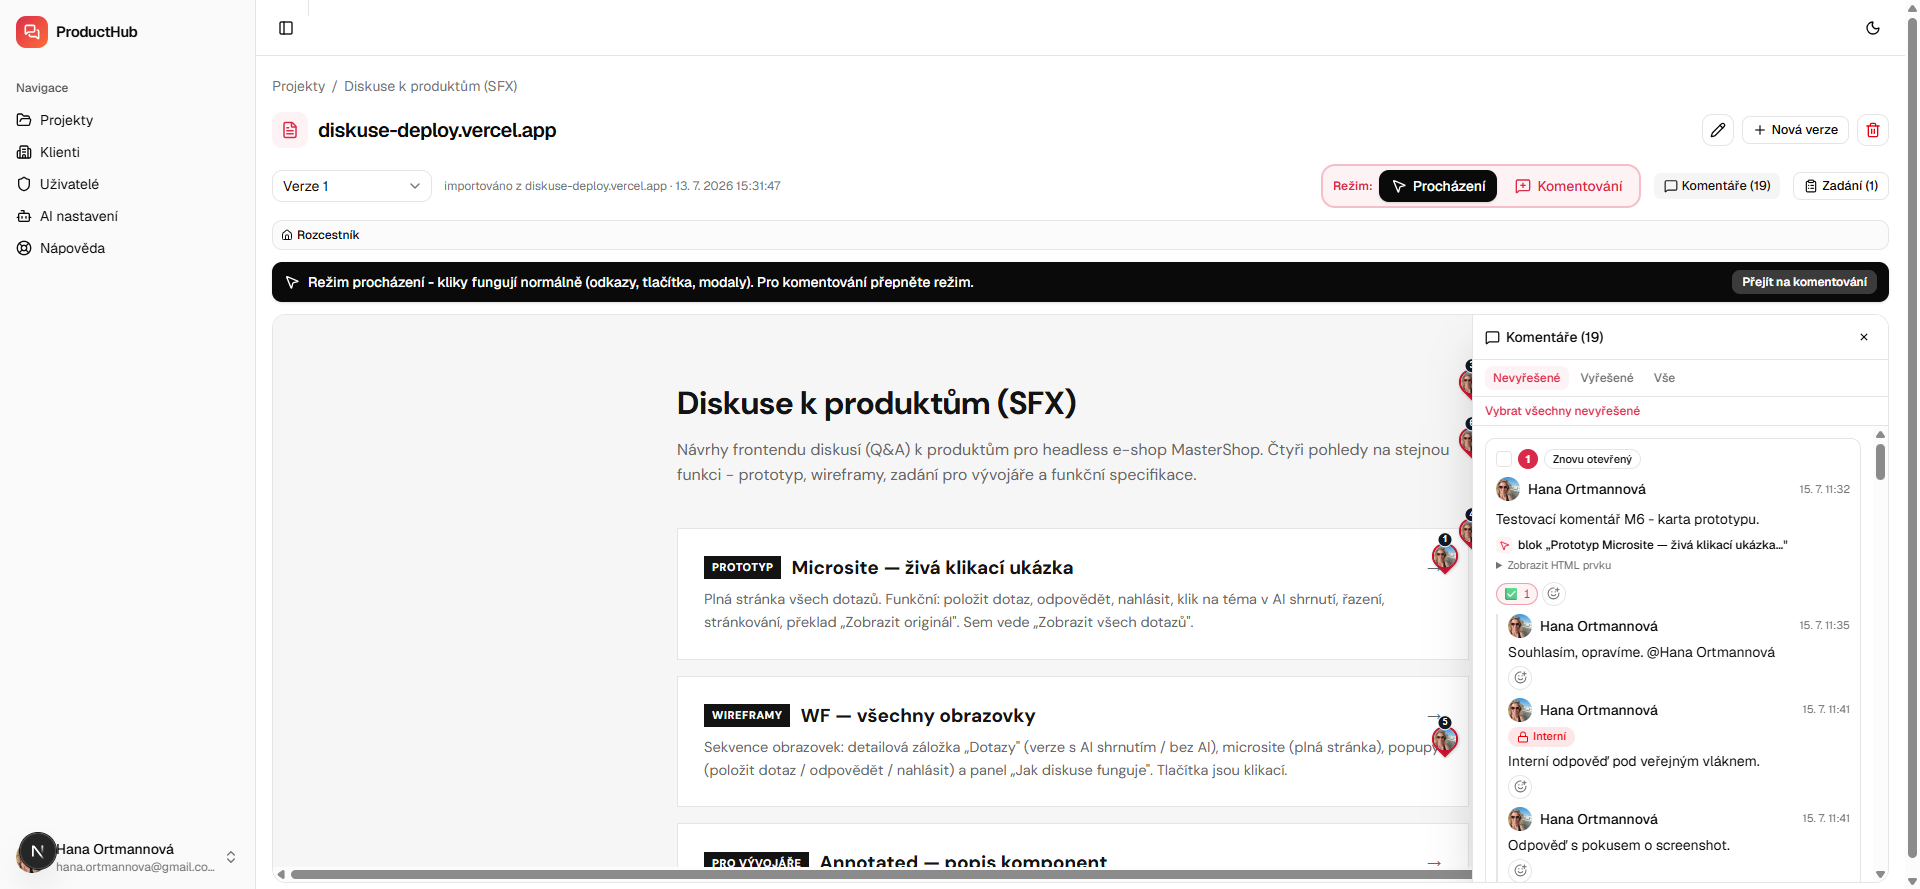
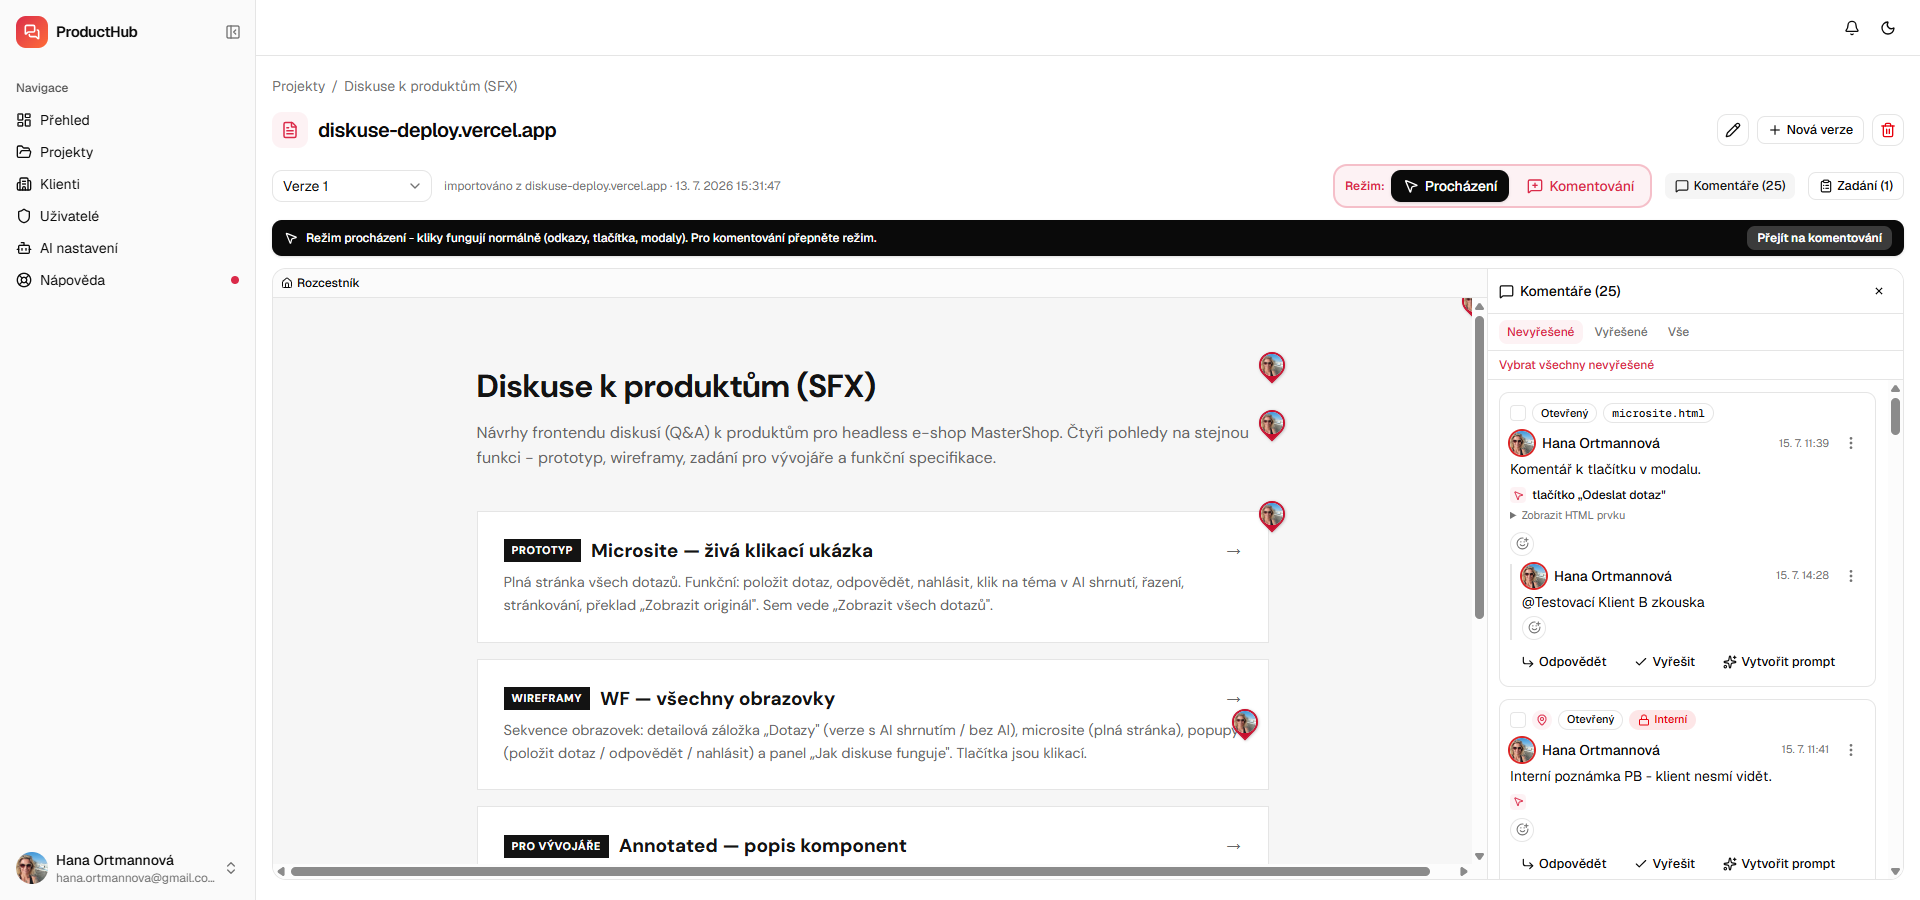
Oprava panelu (falesny posuvnik stranky) + prefoceny screenshot Napovedy
Zavreny panel mel nulovou sirku, takze se text v nem zalomil do ~22px
sloupce - karty narostly na 25 000 px a stranka dostala vlastni svisly
posuvnik do prazdna. Obsah panelu ma proto nove PEVNOU sirku 26rem a je
pozicovany absolutne uvnitr orezavajiciho ramu; samotna pevna sirka
nestacila, vyska obsahu prosakovala do stranky i pres overflow-hidden.
Bonus: panel se ted vysouva, misto aby se obsah macskal.

Overeno v prohlizeci: document.scrollHeight = vyska okna, stranka uz
nescrolluje do prazdna, ram dokumentu se vejde do viewportu.

Napoveda: prefoceny screenshot prohlizece (ukazoval jeste stare spendliky
s cisly a stare rozlozeni) + srovnane pozice zvyraznenych mist, nove i
navigace mezi strankami uvnitr ramu dokumentu.

124 testu zelenych, tsc + lint ciste, produkcni build overen.

diff --git a/components/comments/comment-panel.tsx b/components/comments/comment-panel.tsx
@@ -290,14 +290,22 @@ export function CommentPanel({
     // specifikace i se svými špendlíky zmizela pod ním.
     <div
       className={cn(
-        "flex shrink-0 flex-col overflow-hidden bg-background transition-[width] duration-200",
-        open
-          ? "w-[min(26rem,60%)] border-l"
-          : "pointer-events-none w-0 border-l-0",
+        "relative shrink-0 overflow-hidden bg-background transition-[width] duration-200",
+        open ? "w-[26rem] max-w-[60%] border-l" : "pointer-events-none w-0 border-l-0",
       )}
       aria-hidden={!open}
       inert={!open}
     >
+      {/* Obsah má PEVNOU šířku a je pozicovaný ABSOLUTNĚ uvnitř ořezávajícího
+          rámu. Dva důvody:
+          1. pevná šířka — zavřený panel má nulovou šířku a text by se jinak
+             zalomil do pár pixelů širokého sloupce (karty by narostly do
+             desítek tisíc pixelů);
+          2. absolutní pozice — v běžném toku prosakovala výška obsahu až do
+             stránky (ta pak měla vlastní posuvník do prázdna), přestože rám
+             obsah vizuálně ořezal.
+          Bonus: panel se takhle vysouvá, místo aby se obsah mačkal. */}
+      <div className="absolute inset-y-0 right-0 flex w-[26rem] flex-col">
       {/* Hlavička panelu */}
       <div className="flex items-center justify-between gap-2 border-b px-3 py-2.5">
         <span className="flex items-center gap-1.5 text-sm font-medium">
@@ -491,6 +499,7 @@ export function CommentPanel({
           </Button>
         </div>
       )}
+      </div>
     </div>
   );
 }

diff --git a/app/napoveda/page.tsx b/app/napoveda/page.tsx
@@ -194,13 +194,20 @@ function HelpShot({
 
 // Zvýrazněná místa v prohlížeči dokumentu (pozice odpovídají public/napoveda/prohlizec.png).
 const VIEWER_SPOTS: Spot[] = [
-  { l: 68.5, t: 17.8, w: 17.2, h: 5.6, label: "Přepínač Procházení / Komentování" },
-  { l: 85.6, t: 18.6, w: 13.2, h: 4.2, label: "Panel komentářů a Předaná zadání" },
+  { l: 69.4, t: 18.2, w: 16.6, h: 4.9, label: "Přepínač Procházení / Komentování" },
+  { l: 86.7, t: 19.1, w: 12.5, h: 3.1, label: "Panel komentářů a Předaná zadání" },
   {
-    l: 76.6,
-    t: 49.6,
-    w: 3.4,
-    h: 3.6,
+    l: 14.2,
+    t: 29.9,
+    w: 8,
+    h: 3.2,
+    label: "Navigace mezi stránkami specifikace",
+  },
+  {
+    l: 78.2,
+    t: 44.5,
+    w: 1.6,
+    h: 2.6,
     label: "Zaškrtávátka — výběr komentářů do promptu",
   },
 ];
